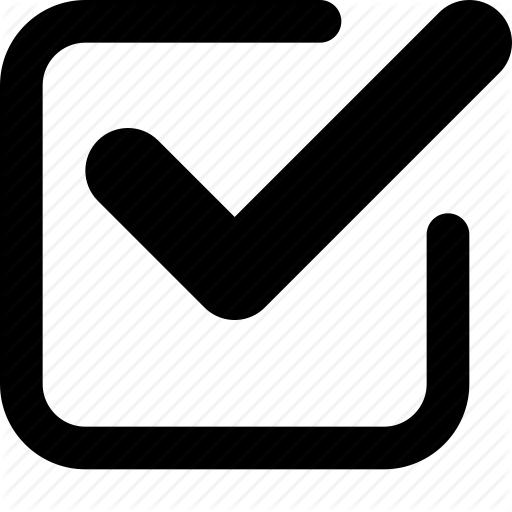
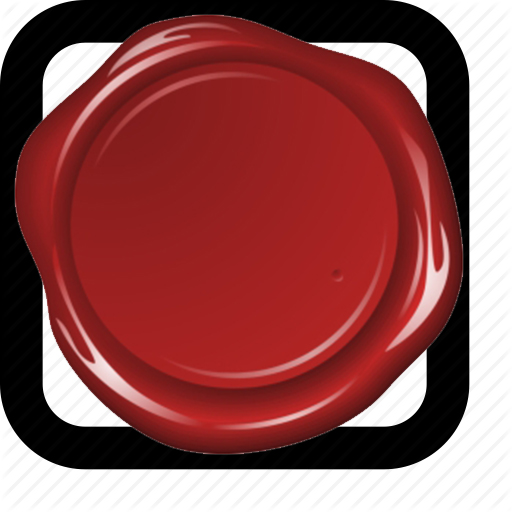
Graphics enchantments
- changed fonts
- added program resizing to bg image in PlayerMenu & changed its size slightly
- changed checkbox image

diff --git a/src/gui/playerMenu/JCheckBoxCustomIcon.java b/src/gui/playerMenu/JCheckBoxCustomIcon.java
@@ -16,10 +16,10 @@ class JCheckBoxCustomIcon extends JCheckBox {
 
         height -= 5;
 
-        setIcon(new ImageIcon(new ImageIcon("res" + File.separator + "checkbox-icons" + File.separator + "disabledIcon.jpg").getImage().getScaledInstance(height, height,  Image.SCALE_SMOOTH)));
+        setIcon(new ImageIcon(new ImageIcon("res" + File.separator + "checkbox-icons" + File.separator + "disabledIcon.png").getImage().getScaledInstance(height, height,  Image.SCALE_SMOOTH)));
 
-        setSelectedIcon(new ImageIcon(new ImageIcon("res" + File.separator + "checkbox-icons" + File.separator + "selectedIcon.jpg").getImage().getScaledInstance(height, height,  Image.SCALE_SMOOTH)));
+        setSelectedIcon(new ImageIcon(new ImageIcon("res" + File.separator + "checkbox-icons" + File.separator + "selectedIcon.png").getImage().getScaledInstance(height, height,  Image.SCALE_SMOOTH)));
 
-        setDisabledIcon(new ImageIcon(new ImageIcon("res" + File.separator + "checkbox-icons" + File.separator + "disabledIcon.jpg").getImage().getScaledInstance(height, height,  Image.SCALE_SMOOTH)));
+        setDisabledIcon(new ImageIcon(new ImageIcon("res" + File.separator + "checkbox-icons" + File.separator + "disabledIcon.png").getImage().getScaledInstance(height, height,  Image.SCALE_SMOOTH)));
     }
 }

diff --git a/src/gui/playerMenu/PlayerPanel.java b/src/gui/playerMenu/PlayerPanel.java
@@ -18,6 +18,10 @@ class PlayerPanel extends JPanel {
     private static int playerNumber = 1;
     private final PlayerMenu parent;
 
+    private final Font TEXTFIELD_FONT = new Font("Footlight MT Light", Font.PLAIN, HEIGHT-20);
+    private final Font BUTTON_FONT  = new Font("Footlight MT Light", Font.PLAIN, HEIGHT-32);
+
+
     PlayerPanel(PlayerMenu parent) {
         this.parent = parent;
         setSize(WIDTH, HEIGHT);
@@ -31,6 +35,7 @@ class PlayerPanel extends JPanel {
 
         playerNameField = new PlayerNameField("Player " + playerNumber++);
         playerNameField.setPreferredSize(new Dimension(WIDTH / 2, HEIGHT-10));
+        playerNameField.setFont(TEXTFIELD_FONT);
         add(playerNameField);
 
         colorComboBox = new ColorComboBox();
@@ -63,6 +68,7 @@ class PlayerPanel extends JPanel {
     public JButton getRemovePlayerButton() {
         if (removePlayerButton == null) {
             removePlayerButton = new JButton("Remove player");
+            removePlayerButton.setFont(BUTTON_FONT);
             removePlayerButton.setHorizontalAlignment(SwingConstants.CENTER);
             removePlayerButton.setPreferredSize(new Dimension((int) (WIDTH * (3.0 / 16.0)), HEIGHT - 10));
             removePlayerButton.setEnabled(false);

diff --git a/src/gui/playerMenu/FooterPanel.java b/src/gui/playerMenu/FooterPanel.java
@@ -14,6 +14,8 @@ class FooterPanel extends JPanel {
     private JButton startButton;
     private final PlayerMenu parent;
 
+    private final Font BUTTON_FONT  = new Font("Footlight MT Light", Font.PLAIN, HEIGHT-24);
+
     FooterPanel(PlayerMenu parent) {
         setSize(WIDTH, HEIGHT);
         setPreferredSize(new Dimension(WIDTH, HEIGHT));
@@ -34,6 +36,7 @@ class FooterPanel extends JPanel {
         if (addPlayerButton == null) {
             addPlayerButton = new JButton("Add player");
             addPlayerButton.setPreferredSize(new Dimension(WIDTH/4, HEIGHT-10));
+            addPlayerButton.setFont(BUTTON_FONT);
             addPlayerButton.addMouseListener(new MouseAdapter() {
                 @Override
                 public void mouseClicked(MouseEvent e) {
@@ -48,6 +51,7 @@ class FooterPanel extends JPanel {
         if (startButton == null) {
             startButton = new JButton("Start game");
             startButton.setPreferredSize(new Dimension(WIDTH/4, HEIGHT-10));
+            startButton.setFont(BUTTON_FONT);
             startButton.addMouseListener(new MouseAdapter() {
                 @Override
                 public void mouseClicked(MouseEvent e) {

diff --git a/src/gui/playerMenu/PlayerMenu.java b/src/gui/playerMenu/PlayerMenu.java
@@ -8,9 +8,9 @@ import gui.Game;
 import logic.Player;
 // TODO: size of the background image
 public class PlayerMenu extends JPanel {
-    private final Image bgImg = new ImageIcon("res/player-menu-bg-800-450.jpg").getImage();
+    private final Image bgImg = new ImageIcon("res/player-menu-bg.jpg").getImage().getScaledInstance(WIDTH, HEIGHT, Image.SCALE_SMOOTH);
 
-    public static final int WIDTH = 800;
+    public static final int WIDTH = 688;
     public static final int HEIGHT = 450;
     private final int MAX_PLAYER_NUMBER = 6; // can not be bigger than ColorModel availableColors length
     private final int MIN_PLAYER_NUMBER = 2;
@@ -33,7 +33,8 @@ public class PlayerMenu extends JPanel {
         updatePanels();
 
         validate();
-        setVisible(true);
+        repaint();
+        //setVisible(true);
     }
 
     private void updatePanels() {
@@ -106,7 +107,7 @@ public class PlayerMenu extends JPanel {
     @Override
     public void paintComponent(Graphics g) {
         super.paintComponent(g);
-        g.drawImage(bgImg, 0, 0, null);
+        g.drawImage(bgImg, 0, 0, this);
     }
 
     public void startGame() {

diff --git a/src/gui/playerMenu/HeaderPanel.java b/src/gui/playerMenu/HeaderPanel.java
@@ -8,7 +8,7 @@ class HeaderPanel extends JPanel {
 
     private static final int WIDTH = PlayerMenu.WIDTH-50;
     private static final int HEIGHT = PlayerMenu.HEIGHT/10;
-    private static final Font FONT = new Font("Arial", Font.BOLD, 25);
+    private final Font FONT = new Font("Blackadder ITC", Font.BOLD, 25);
 
     HeaderPanel() {
         setSize(WIDTH, HEIGHT);
@@ -20,7 +20,7 @@ class HeaderPanel extends JPanel {
 
         add(getLabel("Players", new Dimension(WIDTH / 2, HEIGHT-10)));
         add(getLabel("Army",    new Dimension((int) (WIDTH * (3.0 / 16.0)) - 10, HEIGHT-10)));
-        add(getLabel("Bot?",    new Dimension(WIDTH / 8 - 10, HEIGHT-10)));
+        add(getLabel("Bot",    new Dimension(WIDTH / 8 - 10, HEIGHT-10)));
         add(getLabel("Remove",  new Dimension((int) (WIDTH * (3.0 / 16.0)) - 10, HEIGHT-10)));
 
         setVisible(true);
